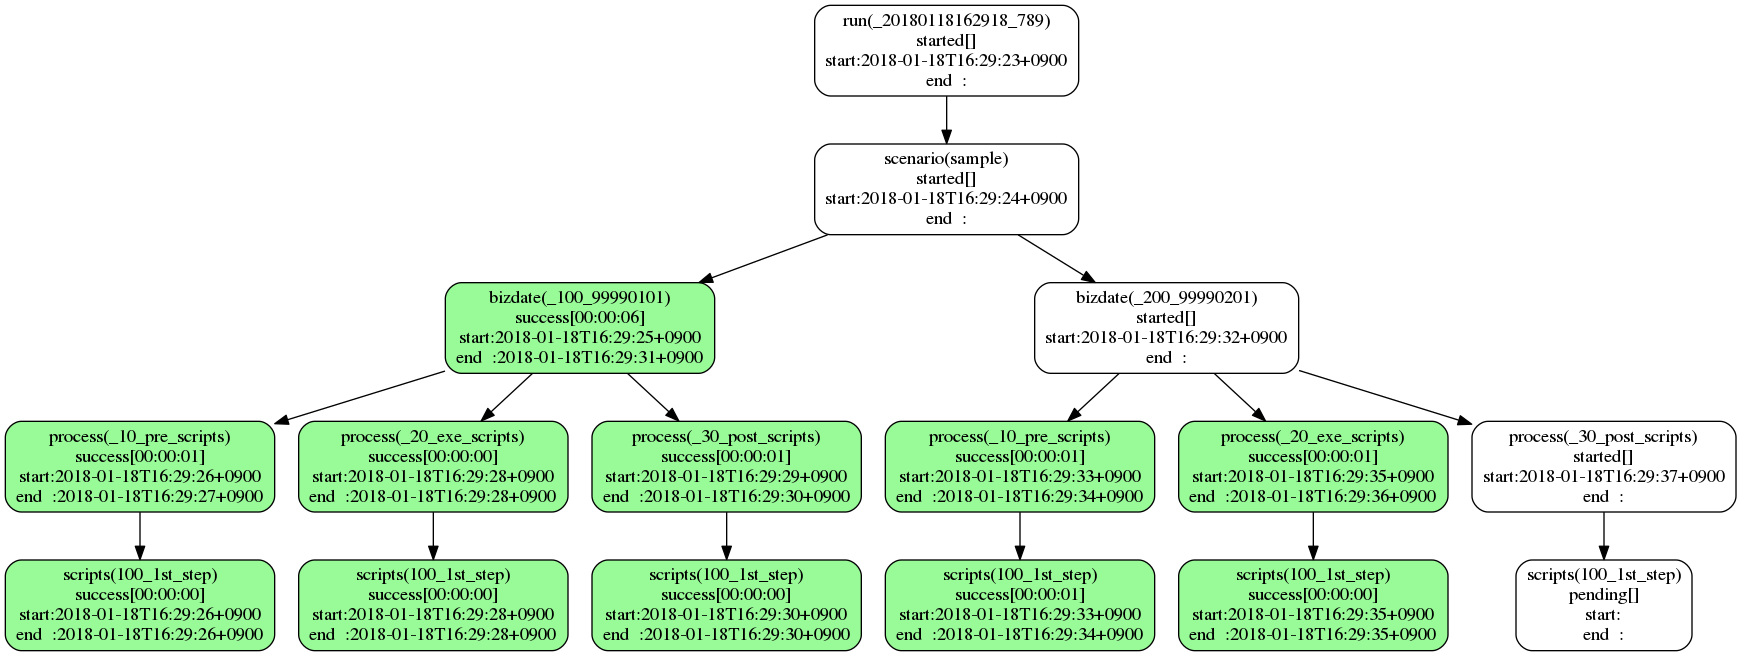
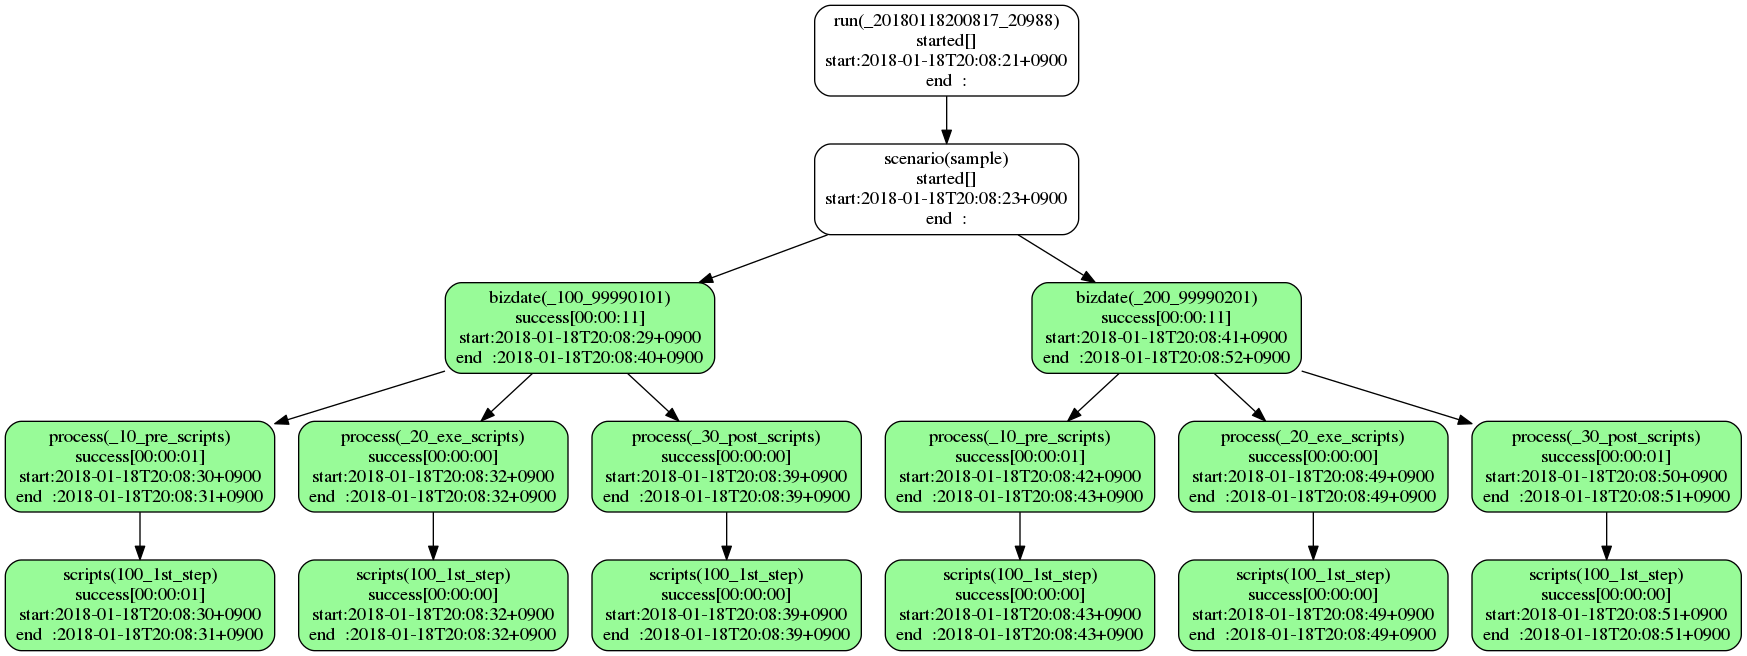
feat:生成した画像をクライアントに表示

diff --git a/app/controllers/webhook_controller.rb b/app/controllers/webhook_controller.rb
@@ -10,11 +10,12 @@ Generated by: https://github.com/swagger-api/swagger-codegen.git
 =end
 require 'json'
 require 'gviz'
+require 'base64'
 
 class WebhookController < ApplicationController
 
   def add_hooks_with_id_using_post1
-    postdatum = Postdatum.new({hookId: params['hookId'],payload: params.to_json})
+    postdatum = Postdatum.new({hookId: params['hookId'], run_id: params['payload']['run']['run id'], payload: params.to_json})
     postdatum.save
 
     render json: {"message" => "yes, it worked"}
@@ -27,7 +28,9 @@ class WebhookController < ApplicationController
 
   def get_hooks_with_id_using_get1
     gv = Gviz.new
-    Postdatum.where(hookId: params['hookId']).order(created_at: :asc).each { |data|
+    rec = Postdatum.order(created_at: :desc).find_by(hookId: params['hookId'])
+    Postdatum.where("hookId = ? and run_id = ?", params['hookId'], rec.run_id)
+             .order(created_at: :asc).each { |data|
       json_data = JSON.parse(data.payload)
 
       if json_data['payload']['type'] == 'run' then
@@ -76,7 +79,6 @@ class WebhookController < ApplicationController
       else
         key=sprintf("%s+run",ukey)
       end
-  #    printf("%s key=%s, pkey=%s\n",file,key.to_sym,pkey.to_sym)
       gv.node key.gsub(/[_+]/,"x").to_sym, label: desc, shape: 'box', style: 'filled,rounded', fillcolor: color
       # plugin
       if json_data['payload']['type'] == 'process' then
@@ -100,7 +102,13 @@ class WebhookController < ApplicationController
         }
       end
     }
-    gv.save :sample, :png
-    render json: {"message" => "yes, it worked"}
+    gv.save "sample", :png
+    io = File.open("sample.dot")
+    data = io.read
+    io = File.open("sample.png")
+    #image = Base64.strict_encode64(io.read)
+    @image = Base64.strict_encode64(io.read)
+    render 'layouts/webhook'
+    # render json: {"message" => "ok","data" => data,"image" => image}
   end
 end

diff --git a/db/schema.rb b/db/schema.rb
@@ -10,7 +10,7 @@
 #
 # It's strongly recommended that you check this file into your version control system.
 
-ActiveRecord::Schema.define(version: 20180118063038) do
+ActiveRecord::Schema.define(version: 20180118074924) do
 
   create_table "id_list_model_gens", id: false, force: :cascade do |t|
     t.string "id_list"
@@ -20,6 +20,7 @@ ActiveRecord::Schema.define(version: 20180118063038) do
 
   create_table "postdata", force: :cascade do |t|
     t.string "hookId"
+    t.string "run_id"
     t.string "payload"
     t.datetime "created_at", null: false
     t.datetime "updated_at", null: false

diff --git a/db/migrate/20180118074924_create_postdata.rb b/db/migrate/20180118074924_create_postdata.rb
@@ -2,6 +2,7 @@ class CreatePostdata < ActiveRecord::Migration[5.1]
   def change
     create_table :postdata do |t|
       t.string :hookId
+      t.string :run_id
       t.string :payload
 
       t.timestamps
